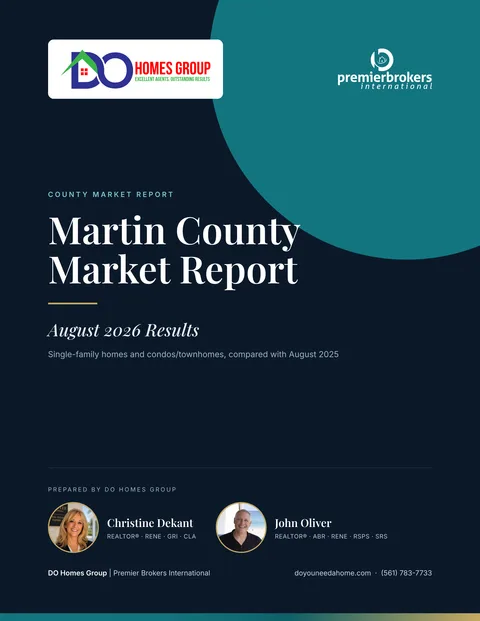
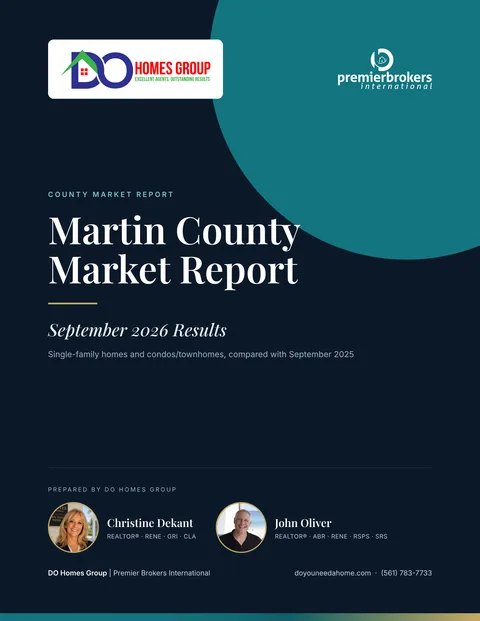
Wire the September 2026 county reports into the site
Registry (edition, ids, file names, source line, keyStats, summaries,
takeaways, FAQs), landing-page data imports and cover images now use the
September data. St. Lucie headline changed from 'tight' to 'near balanced'
to match 5.2 months of supply.

Claude-Session: https://claude.ai/code/session_01W1FBHkDZRFWAAey68Bc38G

Changed region(s): [[0.0938, 0.5201, 0.4688, 0.5507], [0.5938, 0.5507, 0.75, 0.5813]]

diff --git a/src/lib/leadMagnets.ts b/src/lib/leadMagnets.ts
@@ -128,12 +128,12 @@ export const GUIDE_EDITION = '2026 Edition'
  * Publication month of the three county market reports (Palm Beach, Martin,
  * St. Lucie). The edition month and the data month are the same month.
  */
-export const COUNTY_REPORT_EDITION = 'August 2026'
+export const COUNTY_REPORT_EDITION = 'September 2026'
 /** The month the county report statistics actually cover. */
-export const COUNTY_REPORT_DATA_MONTH = 'August 2026'
+export const COUNTY_REPORT_DATA_MONTH = 'September 2026'
 /** Source line printed in all three county report PDFs. */
 export const COUNTY_REPORT_SOURCE =
-  'MIAMI REALTORS® + RWorld, based on Florida Realtors® data, August 2026'
+  'BeachesMLS (Broward, Palm Beaches & St. Lucie Realtors®), September 2026'
 
 // Counts printed on the guide landing pages and covers are derived from the
 // content files so they can never drift out of sync with what is actually in
@@ -151,31 +151,31 @@ const CONDO_QUESTION_COUNT =
 
 export const leadMagnets: Record<LeadMagnetKey, LeadMagnet> = {
   // ───────────────────────────────────────────────────────────────────────────
-  // Built by scripts/pbc-county-report/ from data/pbc-market-2026-08.json, which
+  // Built by scripts/pbc-county-report/ from data/pbc-market-2026-09.json, which
   // the landing-page tables also read. Replaces the two July-data Palm Beach
   // County reports (single-family and condo-townhome) — both property types are
   // in this one PDF. Past activity only: no predictions, no valuation claims.
   'palm-beach-county-market-report': {
     key: 'palm-beach-county-market-report',
-    id: 'palm-beach-county-market-report-2026-08',
+    id: 'palm-beach-county-market-report-2026-09',
     kind: 'market-report',
     title: 'Palm Beach County Market Report',
     shortTitle: 'Palm Beach County Market Report',
     category: 'Palm Beach County',
     edition: COUNTY_REPORT_EDITION,
     dataMonth: COUNTY_REPORT_DATA_MONTH,
-    dataAttribution: `${COUNTY_REPORT_DATA_MONTH} Palm Beach County market data (MIAMI REALTORS® + RWorld, based on Florida Realtors® data)`,
-    fileName: 'palm-beach-county-market-report-august-2026.pdf',
+    dataAttribution: `${COUNTY_REPORT_DATA_MONTH} Palm Beach County market data (BeachesMLS)`,
+    fileName: 'palm-beach-county-market-report-september-2026.pdf',
     coverImage: '/images/reports/palm-beach-county-cover.webp',
     coverImageLarge: '/images/reports/palm-beach-county-cover-lg.webp',
     coverAlt:
-      'Cover of the Palm Beach County Market Report, August 2026, prepared by Christine Dekant and John Oliver of DO Homes Group',
+      'Cover of the Palm Beach County Market Report, September 2026, prepared by Christine Dekant and John Oliver of DO Homes Group',
     crmTag: 'Lead Magnet - Palm Beach County Market Report',
     landingPage: '/palm-beach-county-market-report',
     ctaEyebrow: `Free — ${COUNTY_REPORT_DATA_MONTH} Palm Beach County Numbers`,
     ctaHeadline: 'What Palm Beach County Homes Actually Sold For',
     ctaDescription:
-      'The typical house sold for $650,000 and went under contract in 40 days, at 94.8% of asking. Condos are a different market: 6.7 months of supply and 69 days. See both, and what each means for your offer or your asking price.',
+      'The typical house sold for $656,000 and went under contract in 43 days, at 94.7% of asking. Condos are a different market: 6.8 months of supply and 53 days. See both, and what each means for your offer or your asking price.',
     ctaButtonLabel: 'Send Me the Numbers',
     benefits: [
       'What houses and condos actually sold for last month, and how fast',
@@ -183,33 +183,33 @@ export const leadMagnets: Record<LeadMagnetKey, LeadMagnet> = {
       'How much is for sale now versus a year ago, so you can see who has the upper hand',
     ],
     keyStats: [
-      { value: '$650,000', label: 'Single-Family Median', sub: '+3.2% year over year' },
-      { value: '3.5', label: 'Single-Family Months of Supply', sub: 'down from 5.2' },
-      { value: '$300,000', label: 'Condo/Townhome Median', sub: '+5.3% year over year' },
-      { value: '6.7', label: 'Condo/Townhome Months of Supply', sub: 'down from 9.0' },
+      { value: '$656,000', label: 'Single-Family Median', sub: '+6.7% year over year' },
+      { value: '3.6', label: 'Single-Family Months of Supply', sub: 'down from 5.0' },
+      { value: '$310,000', label: 'Condo/Townhome Median', sub: '+3.3% year over year' },
+      { value: '6.8', label: 'Condo/Townhome Months of Supply', sub: 'down from 8.8' },
     ],
     subheadline:
       'Prices, inventory, pace and negotiating conditions across Palm Beach County, with single-family homes and condos/townhomes measured separately.',
     metaTitle: `Palm Beach County Real Estate Market Report | ${COUNTY_REPORT_EDITION}`,
     metaDescription:
-      'Palm Beach County August 2026: single-family median $650,000 at 3.5 months of supply; condos/townhomes $300,000 at 6.7 months. Free PDF with year-over-year tables.',
+      'Palm Beach County September 2026: single-family median $656,000 at 3.6 months of supply; condos/townhomes $310,000 at 6.8 months. Free PDF with year-over-year tables.',
     summaryHeading: `What the ${COUNTY_REPORT_DATA_MONTH} Numbers Say`,
     summary:
-      'Single-family homes and condos/townhomes behaved like two different markets in Palm Beach County in August 2026. Single-family supply tightened from 5.2 to 3.5 months as active inventory fell 23.8% to 4,345, and median days to contract dropped from 46 to 40, even though closed sales slipped 2.0% to 1,112. The median sale price was $650,000, against $630,000 a year earlier, and the typical sale closed at 94.8% of original list price. That reads as seller-leaning. Condos and townhomes still leave more room to negotiate at 6.7 months of supply, with a median of 69 days to contract and sales closing at 92.6% of original list price, but inventory fell 17.1% and supply is down from 9.0 months, so that room is narrower than it was a year ago.',
+      'Single-family homes and condos/townhomes behaved like two different markets in Palm Beach County in September 2026. Single-family supply tightened from 5.0 to 3.6 months as active inventory fell 19.6% to 4,481, and median days to contract dropped from 51 to 43, even though closed sales slipped 2.7% to 1,132. The median sale price was $656,000, against $615,000 a year earlier, and the typical sale closed at 94.7% of original list price. That reads as seller-leaning. Condos and townhomes still leave more room to negotiate at 6.8 months of supply, with a median of 53 days to contract and sales closing at 93.2% of original list price, but inventory fell 15.3% and supply is down from 8.8 months, so that room is narrower than it was a year ago.',
     takeaways: [
-      'Single-family: 1,112 closed sales (−2.0%), median $650,000 (+3.2%), 3.5 months of supply, down from 5.2.',
-      'Single-family median days to contract fell from 46 to 40, and sales closed at 94.8% of original list price, up from 93.3%.',
-      'Condo/townhome: 765 closed sales (−6.7%), median $300,000 (+5.3%), 6.7 months of supply, down from 9.0.',
-      'Condo/townhome sales closed at 92.6% of original list price, with a median of 69 days to contract, down from 74.',
-      'Active inventory fell 23.8% for single-family homes and 17.1% for condos and townhomes.',
-      '41.8% of single-family and 57.3% of condo/townhome closings were paid in cash, calculated from the reported counts.',
+      'Single-family: 1,132 closed sales (−2.7%), median $656,000 (+6.7%), 3.6 months of supply, down from 5.0.',
+      'Single-family median days to contract fell from 51 to 43, and sales closed at 94.7% of original list price, up from 93.4%.',
+      'Condo/townhome: 782 closed sales (−4.3%), median $310,000 (+3.3%), 6.8 months of supply, down from 8.8.',
+      'Condo/townhome sales closed at 93.2% of original list price, with a median of 53 days to contract, down from 65.',
+      'Active inventory fell 19.6% for single-family homes and 15.3% for condos and townhomes.',
+      '44.7% of single-family and 61.1% of condo/townhome closings were paid in cash, calculated from the reported counts.',
     ],
     audienceColumns: [
       {
         heading: 'If You Are Buying',
         points: [
-          'See how 3.5 months of single-family supply and a 40-day median contract time shape how ready you need to be.',
-          'Understand the negotiating room 6.7 months of condo/townhome supply still gives buyers, and why it is narrower than a year ago.',
+          'See how 3.6 months of single-family supply and a 43-day median contract time shape how ready you need to be.',
+          'Understand the negotiating room 6.8 months of condo/townhome supply still gives buyers, and why it is narrower than a year ago.',
           'Base offers on what homes actually closed at relative to original list price, not on asking prices.',
         ],
       },
@@ -225,7 +225,7 @@ export const leadMagnets: Record<LeadMagnetKey, LeadMagnet> = {
     faqs: [
       {
         q: 'What data is in the Palm Beach County Market Report?',
-        a: 'August 2026 county-level figures for Palm Beach County single-family homes and condos/townhomes: closed sales, paid-in-cash sales, median sale price, percent of original list price received, median days to contract, active inventory and months of supply, each compared with August 2025, plus guidance for buyers and sellers. Source: MIAMI REALTORS® + RWorld, based on Florida Realtors® data.',
+        a: 'September 2026 county-level figures for Palm Beach County single-family homes and condos/townhomes: closed sales, paid-in-cash sales, median sale price, percent of original list price received, median days to contract, active inventory and months of supply, each compared with September 2025, plus guidance for buyers and sellers. Source: BeachesMLS (Broward, Palm Beaches & St. Lucie Realtors®).',
       },
       {
         q: 'Does it include figures for my city or neighborhood?',
@@ -233,7 +233,7 @@ export const leadMagnets: Record<LeadMagnetKey, LeadMagnet> = {
       },
       {
         q: 'Does it cover condos as well as houses?',
-        a: 'Yes. Single-family homes and condos/townhomes are reported separately, because in August 2026 they were behaving like two different markets: 3.5 months of supply for single-family homes against 6.7 for condos and townhomes.',
+        a: 'Yes. Single-family homes and condos/townhomes are reported separately, because in September 2026 they were behaving like two different markets: 3.6 months of supply for single-family homes against 6.8 for condos and townhomes.',
       },
       {
         q: 'Is the report really free?',
@@ -491,32 +491,32 @@ export const leadMagnets: Record<LeadMagnetKey, LeadMagnet> = {
 
   // ───────────────────────────────────────────────────────────────────────────
   // The Martin and St. Lucie county reports. Every figure below comes from the
-  // August 2026 data files the PDFs are built from — scripts/pbc-county-report/
-  // data/{martin,st-lucie}-market-2026-08.json — and the landing-page tables
+  // September 2026 data files the PDFs are built from — scripts/pbc-county-report/
+  // data/{martin,st-lucie}-market-2026-09.json — and the landing-page tables
   // read those same files. Past activity only: no predictions, no valuation
-  // claims. Both condo medians rest on small samples (61 and 80 closings) and
+  // claims. Both condo medians rest on small samples (90 and 91 closings) and
   // must never be presented as a blanket increase in condo values.
   'martin-county-market-report': {
     key: 'martin-county-market-report',
-    id: 'martin-county-market-report-2026-08',
+    id: 'martin-county-market-report-2026-09',
     kind: 'market-report',
     title: 'Martin County Market Report',
     shortTitle: 'Martin County Market Report',
     category: 'Martin County',
     edition: COUNTY_REPORT_EDITION,
     dataMonth: COUNTY_REPORT_DATA_MONTH,
-    dataAttribution: `${COUNTY_REPORT_DATA_MONTH} Martin County market data (MIAMI REALTORS® + RWorld, based on Florida Realtors® data)`,
-    fileName: 'martin-county-market-report-august-2026.pdf',
+    dataAttribution: `${COUNTY_REPORT_DATA_MONTH} Martin County market data (BeachesMLS)`,
+    fileName: 'martin-county-market-report-september-2026.pdf',
     coverImage: '/images/reports/martin-county-cover.webp',
     coverImageLarge: '/images/reports/martin-county-cover-lg.webp',
     coverAlt:
-      'Cover of the Martin County Market Report, August 2026, prepared by Christine Dekant and John Oliver of DO Homes Group',
+      'Cover of the Martin County Market Report, September 2026, prepared by Christine Dekant and John Oliver of DO Homes Group',
     crmTag: 'Lead Magnet - Martin County Market Report',
     landingPage: '/martin-county-market-report',
     ctaEyebrow: `Free — ${COUNTY_REPORT_DATA_MONTH} Martin County Numbers`,
     ctaHeadline: 'Martin County Houses Are Selling Three Weeks Faster',
     ctaDescription:
-      'Houses went under contract in 56 days last month, down from 77 a year ago, and what is for sale dropped by more than a fifth. The typical house sold for $656,900. Every number is Martin County \u2014 Stuart, Palm City, Hobe Sound and Port Salerno \u2014 not Palm Beach County.',
+      'Houses went under contract in 39 days last month, down from 62 a year ago, and what is for sale dropped by nearly a fifth. The typical house sold for $600,000. Every number is Martin County \u2014 Stuart, Palm City, Hobe Sound and Port Salerno \u2014 not Palm Beach County.',
     ctaButtonLabel: 'Send Me the Numbers',
     benefits: [
       'What houses and condos actually sold for last month, and how fast',
@@ -524,32 +524,32 @@ export const leadMagnets: Record<LeadMagnetKey, LeadMagnet> = {
       'Martin County only, never blended with Palm Beach County',
     ],
     keyStats: [
-      { value: '$656,900', label: 'Single-Family Median', sub: '+12.8% year over year' },
-      { value: '3.4', label: 'Single-Family Months of Supply', sub: 'down from 5.1' },
-      { value: '56', label: 'Single-Family Days to Contract', sub: 'down from 77' },
-      { value: '5.5', label: 'Condo/Townhome Months of Supply', sub: 'down from 8.1' },
+      { value: '$600,000', label: 'Single-Family Median', sub: '+5.3% year over year' },
+      { value: '3.6', label: 'Single-Family Months of Supply', sub: 'down from 5.1' },
+      { value: '39', label: 'Single-Family Days to Contract', sub: 'down from 62' },
+      { value: '5.1', label: 'Condo/Townhome Months of Supply', sub: 'down from 7.9' },
     ],
     subheadline:
       'Stuart, Palm City, Hobe Sound, Port Salerno and the rest of Martin County, measured on their own county’s numbers rather than Palm Beach County’s.',
     metaTitle: `Martin County Real Estate Market Report | ${COUNTY_REPORT_EDITION}`,
     metaDescription:
-      'Martin County August 2026: single-family median $656,900 at 3.4 months of supply; condos/townhomes at 5.5 months. Year-over-year tables in a free PDF.',
+      'Martin County September 2026: single-family median $600,000 at 3.6 months of supply; condos/townhomes at 5.1 months. Year-over-year tables in a free PDF.',
     summaryHeading: `What the ${COUNTY_REPORT_DATA_MONTH} Numbers Say`,
     summary:
-      'Martin County recorded fewer closings and fewer active listings in August 2026 than a year earlier, for both property types. Single-family closed sales fell 11.3% to 181 while active inventory fell 21.7% to 644, taking months of supply from 5.1 to 3.4. Median days to contract dropped from 77 to 56, the typical sale closed at 94.2% of original list price, and the median sale price was $656,900, compared with $582,500 in August 2025. That combination reads as seller-leaning. Condos and townhomes are closer to balanced: supply fell from 8.1 to 5.5 months, sales closed at 90.8% of original list price, and the median took 84 days to reach contract. The condo/townhome median rose 20.7% to $277,500, but it rests on only 61 closings, so it reflects the mix of units that happened to sell rather than a change in what any particular condo is worth.',
+      'Martin County recorded fewer active listings in September 2026 than a year earlier, for both property types. Single-family closed sales fell 4.0% to 168 while active inventory fell 18.1% to 682, taking months of supply from 5.1 to 3.6. Median days to contract dropped from 62 to 39, the typical sale closed at 94.6% of original list price, and the median sale price was $600,000, compared with $570,000 in September 2025. That combination reads as seller-leaning. Condos and townhomes are closer to balanced: supply fell from 7.9 to 5.1 months, the largest move in either property type, and sales closed at 92.3% of original list price, up from 89.0%. Closings rose 13.9% to 90, though median days to contract lengthened from 80 to 89. The condo/townhome median rose 8.0% to $237,500, but it rests on only 90 closings, so it reflects the mix of units that happened to sell rather than a change in what any particular condo is worth.',
     takeaways: [
-      'Single-family: 181 closed sales (−11.3%), median $656,900 (+12.8%), 3.4 months of supply, down from 5.1.',
-      'Single-family median days to contract fell from 77 to 56, and sales closed at 94.2% of original list price, up from 91.5%.',
-      'Condo/townhome: 61 closed sales (−22.8%), 5.5 months of supply, down from 8.1, at 90.8% of original list price.',
-      'The +20.7% condo/townhome median rests on only 61 closings. It is not a blanket conclusion about condo values.',
-      'Active inventory fell 21.7% for single-family homes and 19.9% for condos and townhomes.',
-      '36.5% of single-family and 52.5% of condo/townhome closings were paid in cash, calculated from the reported counts.',
+      'Single-family: 168 closed sales (−4.0%), median $600,000 (+5.3%), 3.6 months of supply, down from 5.1.',
+      'Single-family median days to contract fell from 62 to 39, and sales closed at 94.6% of original list price, up from 93.1%.',
+      'Condo/townhome: 90 closed sales (+13.9%), 5.1 months of supply, down from 7.9, at 92.3% of original list price.',
+      'The +8.0% condo/townhome median rests on only 90 closings. It is not a blanket conclusion about condo values.',
+      'Active inventory fell 18.1% for single-family homes and 24.8% for condos and townhomes.',
+      '33.3% of single-family and 58.9% of condo/townhome closings were paid in cash, calculated from the reported counts.',
     ],
     audienceColumns: [
       {
         heading: 'If You Are Buying',
         points: [
-          'See how 3.4 months of single-family supply and a 56-day median contract time shape how ready you need to be.',
+          'See how 3.6 months of single-family supply and a 39-day median contract time shape how ready you need to be.',
           'Anchor offers to what homes actually closed at, relative to original list price, by property type.',
           'Know which condo and townhome figures rest on small samples before you read too much into them.',
         ],
@@ -566,15 +566,15 @@ export const leadMagnets: Record<LeadMagnetKey, LeadMagnet> = {
     faqs: [
       {
         q: 'What data is in the Martin County Market Report?',
-        a: 'August 2026 county-level figures for Martin County single-family homes and condos/townhomes: closed sales, paid-in-cash sales, median sale price, percent of original list price received, median days to contract, active inventory and months of supply, each compared with August 2025. Source: MIAMI REALTORS® + RWorld, based on Florida Realtors® data.',
+        a: 'September 2026 county-level figures for Martin County single-family homes and condos/townhomes: closed sales, paid-in-cash sales, median sale price, percent of original list price received, median days to contract, active inventory and months of supply, each compared with September 2025. Source: BeachesMLS (Broward, Palm Beaches & St. Lucie Realtors®).',
       },
       {
         q: 'Does it include figures for Stuart, Palm City, Hobe Sound or Port Salerno?',
         a: 'No. Every figure is a Martin County total. County numbers blend distinct local markets, and conditions in any one town or neighborhood can differ from the county median. For a specific area, we review recent sales and active competition there with you.',
       },
       {
-        q: 'Did Martin County condo values go up 20.7%?',
-        a: 'Not in any general sense. The condo/townhome median sale price was $277,500 in August 2026, compared with $230,000 a year earlier, but that median is based on only 61 closings. A sample that small moves with the mix of units that happened to sell, so it says nothing reliable about what any particular condo or townhome is worth.',
+        q: 'Did Martin County condo values go up 8.0%?',
+        a: 'Not in any general sense. The condo/townhome median sale price was $237,500 in September 2026, compared with $220,000 a year earlier, but that median is based on only 90 closings. A sample that small moves with the mix of units that happened to sell, so it says nothing reliable about what any particular condo or townhome is worth.',
       },
       {
         q: 'Is the report really free?',
@@ -611,25 +611,25 @@ export const leadMagnets: Record<LeadMagnetKey, LeadMagnet> = {
   // ───────────────────────────────────────────────────────────────────────────
   'st-lucie-county-market-report': {
     key: 'st-lucie-county-market-report',
-    id: 'st-lucie-county-market-report-2026-08',
+    id: 'st-lucie-county-market-report-2026-09',
     kind: 'market-report',
     title: 'St. Lucie County Market Report',
     shortTitle: 'St. Lucie County Market Report',
     category: 'St. Lucie County',
     edition: COUNTY_REPORT_EDITION,
     dataMonth: COUNTY_REPORT_DATA_MONTH,
-    dataAttribution: `${COUNTY_REPORT_DATA_MONTH} St. Lucie County market data (MIAMI REALTORS® + RWorld, based on Florida Realtors® data)`,
-    fileName: 'st-lucie-county-market-report-august-2026.pdf',
+    dataAttribution: `${COUNTY_REPORT_DATA_MONTH} St. Lucie County market data (BeachesMLS)`,
+    fileName: 'st-lucie-county-market-report-september-2026.pdf',
     coverImage: '/images/reports/st-lucie-county-cover.webp',
     coverImageLarge: '/images/reports/st-lucie-county-cover-lg.webp',
     coverAlt:
-      'Cover of the St. Lucie County Market Report, August 2026, prepared by Christine Dekant and John Oliver of DO Homes Group',
+      'Cover of the St. Lucie County Market Report, September 2026, prepared by Christine Dekant and John Oliver of DO Homes Group',
     crmTag: 'Lead Magnet - St. Lucie County Market Report',
     landingPage: '/st-lucie-county-market-report',
     ctaEyebrow: `Free — ${COUNTY_REPORT_DATA_MONTH} St. Lucie County Numbers`,
-    ctaHeadline: 'Houses Are Tight Here. Condo Buyers Still Have Choice.',
+    ctaHeadline: 'Houses Are Near Balanced. Condo Buyers Still Have Choice.',
     ctaDescription:
-      'Houses sold at 95.5% of asking in 54 days last month, so there was less room than most buyers expect. Condos ran 7.6 months of supply and 82 days, which is a different negotiation entirely. Both sets of numbers, in one free PDF.',
+      'Houses sold at 95.7% of asking in 52 days last month, so there was less room than most buyers expect. Condos ran 7.8 months of supply and 117 days, which is a different negotiation entirely. Both sets of numbers, in one free PDF.',
     ctaButtonLabel: 'Send Me the Numbers',
     benefits: [
       'What houses and condos actually sold for last month, and how fast',
@@ -637,34 +637,34 @@ export const leadMagnets: Record<LeadMagnetKey, LeadMagnet> = {
       'St. Lucie County only, never blended with Palm Beach County',
     ],
     keyStats: [
-      { value: '$402,500', label: 'Single-Family Median', sub: '+0.6% year over year' },
-      { value: '4.9', label: 'Single-Family Months of Supply', sub: 'down from 5.4' },
-      { value: '95.5%', label: 'Single-Family List Price Received', sub: 'up from 94.3%' },
-      { value: '7.6', label: 'Condo/Townhome Months of Supply', sub: 'down from 10.1' },
+      { value: '$395,000', label: 'Single-Family Median', sub: '−1.3% year over year' },
+      { value: '5.2', label: 'Single-Family Months of Supply', sub: 'down from 5.5' },
+      { value: '95.7%', label: 'Single-Family List Price Received', sub: 'up from 95.0%' },
+      { value: '7.8', label: 'Condo/Townhome Months of Supply', sub: 'down from 9.5' },
     ],
     subheadline:
       'Port St. Lucie and the rest of St. Lucie County, measured on their own county’s numbers rather than Palm Beach County’s.',
     metaTitle: `St. Lucie County Real Estate Market Report | ${COUNTY_REPORT_EDITION}`,
     metaDescription:
-      'St. Lucie County August 2026: single-family median $402,500 at 4.9 months of supply; condos/townhomes at 7.6 months. Year-over-year tables in a free PDF.',
+      'St. Lucie County September 2026: single-family median $395,000 at 5.2 months of supply; condos/townhomes at 7.8 months. Year-over-year tables in a free PDF.',
     summaryHeading: `What the ${COUNTY_REPORT_DATA_MONTH} Numbers Say`,
     summary:
-      'St. Lucie County’s two property types sent different signals in August 2026. Single-family homes were near balanced and tilting toward sellers: supply eased from 5.4 to 4.9 months, the typical sale closed at 95.5% of original list price, up from 94.3%, and median days to contract fell from 64 to 54. The median sale price held essentially steady at $402,500, against $400,000 a year earlier, while closed sales slipped 6.5% to 444. Condos and townhomes remained buyer-leaning. Active inventory fell 15.2% to 626 and supply dropped from 10.1 months, yet 7.6 months still leaves buyers with options, and median days to contract lengthened from 78 to 82. The condo/townhome median rose 7.2% to $320,000, but it is based on only 80 closings, so read it alongside supply and list-price-received figures rather than as an increase in condo values.',
+      'St. Lucie County’s two property types sent different signals in September 2026. Single-family homes were close to balanced: supply eased from 5.5 to 5.2 months and the typical sale closed at 95.7% of original list price, up from 95.0%, but median days to contract rose from 44 to 52. The median sale price was $395,000, against $400,000 a year earlier, and closed sales slipped 8.7% to 464. Condos and townhomes remained buyer-leaning. Active inventory fell 10.6% to 635 and supply dropped from 9.5 months, yet 7.8 months still leaves buyers with options, and median days to contract lengthened from 69 to 117. The condo/townhome median rose 24.1% to $337,500, but it is based on only 91 closings in a county without much condo stock, so which buildings happened to trade moves it more than any change in what units are worth. Read it alongside supply and list-price-received figures, not as an increase in condo values.',
     takeaways: [
-      'Single-family: 444 closed sales (−6.5%), median $402,500 (+0.6%), 4.9 months of supply, down from 5.4.',
-      'Single-family sales closed at 95.5% of original list price, and median days to contract fell from 64 to 54.',
-      'Condo/townhome: 80 closed sales (−9.1%), 7.6 months of supply, down from 10.1, with median days to contract up from 78 to 82.',
-      'The +7.2% condo/townhome median rests on only 80 closings. It is not a universal increase in condo values.',
-      'Active inventory fell 3.4% to 2,270 single-family homes and 15.2% to 626 condos and townhomes.',
-      '25.2% of single-family and 53.8% of condo/townhome closings were paid in cash, calculated from the reported counts.',
+      'Single-family: 464 closed sales (−8.7%), median $395,000 (−1.3%), 5.2 months of supply, down from 5.5.',
+      'Single-family sales closed at 95.7% of original list price, but median days to contract rose from 44 to 52.',
+      'Condo/townhome: 91 closed sales (−3.2%), 7.8 months of supply, down from 9.5, with median days to contract up from 69 to 117.',
+      'The +24.1% condo/townhome median rests on only 91 closings. It is not a universal increase in condo values.',
+      'Active inventory fell 1.3% to 2,384 single-family homes and 10.6% to 635 condos and townhomes.',
+      '27.6% of single-family and 42.9% of condo/townhome closings were paid in cash, calculated from the reported counts.',
     ],
     audienceColumns: [
       {
         heading: 'If You Are Buying',
         points: [
-          'See why single-family sales closing at 95.5% of original list price can mean less room than you expect.',
-          'Understand the leverage 7.6 months of condo/townhome supply and an 82-day median contract time give buyers.',
-          'Judge a condo on its own building’s sales and finances, not a county median built on 80 closings.',
+          'See why single-family sales closing at 95.7% of original list price can mean less room than you expect.',
+          'Understand the leverage 7.8 months of condo/townhome supply and a 117-day median contract time give buyers.',
+          'Judge a condo on its own building’s sales and finances, not a county median built on 91 closings.',
         ],
       },
       {
@@ -679,15 +679,15 @@ export const leadMagnets: Record<LeadMagnetKey, LeadMagnet> = {
     faqs: [
       {
         q: 'What data is in the St. Lucie County Market Report?',
-        a: 'August 2026 county-level figures for St. Lucie County single-family homes and condos/townhomes: closed sales, paid-in-cash sales, median sale price, percent of original list price received, median days to contract, active inventory and months of supply, each compared with August 2025. Source: MIAMI REALTORS® + RWorld, based on Florida Realtors® data.',
+        a: 'September 2026 county-level figures for St. Lucie County single-family homes and condos/townhomes: closed sales, paid-in-cash sales, median sale price, percent of original list price received, median days to contract, active inventory and months of supply, each compared with September 2025. Source: BeachesMLS (Broward, Palm Beaches & St. Lucie Realtors®).',
       },
       {
         q: 'Does it include figures for Port St. Lucie?',
         a: 'No. Every figure is a St. Lucie County total. County numbers blend varied local markets, and conditions in any one city or neighborhood can differ from the county median. For a specific area, we review recent sales and active competition there with you.',
       },
       {
-        q: 'Did St. Lucie County condo values go up 7.2%?',
-        a: 'Not in any general sense. The condo/townhome median sale price was $320,000 in August 2026, compared with $298,450 a year earlier, but it is based on only 80 closings. Read it alongside 7.6 months of supply, 626 active listings and 93.7% of original list price received, not as a universal increase in condo values.',
+        q: 'Did St. Lucie County condo values go up 24.1%?',
+        a: 'Not in any general sense. The condo/townhome median sale price was $337,500 in September 2026, compared with $272,000 a year earlier, but it is based on only 91 closings in a county without much condo stock. Read it alongside 7.8 months of supply, 635 active listings and 93.3% of original list price received, not as a universal increase in condo values.',
       },
       {
         q: 'Is the report really free?',

diff --git a/src/app/st-lucie-county-market-report/page.tsx b/src/app/st-lucie-county-market-report/page.tsx
@@ -2,9 +2,9 @@ import type { Metadata } from 'next'
 import { leadMagnets } from '@/lib/leadMagnets'
 import LeadMagnetLanding from '@/components/leadMagnet/LeadMagnetLanding'
 import CountyMarketTables from '@/components/leadMagnet/CountyMarketTables'
-// The same August 2026 data and narrative files the PDF is built from.
-import stLucieMarket from '../../../scripts/pbc-county-report/data/st-lucie-market-2026-08.json'
-import stLucieNarrative from '../../../scripts/pbc-county-report/data/st-lucie-narrative-2026-08.json'
+// The same September 2026 data and narrative files the PDF is built from.
+import stLucieMarket from '../../../scripts/pbc-county-report/data/st-lucie-market-2026-09.json'
+import stLucieNarrative from '../../../scripts/pbc-county-report/data/st-lucie-narrative-2026-09.json'
 
 const magnet = leadMagnets['st-lucie-county-market-report']
 

diff --git a/src/app/martin-county-market-report/page.tsx b/src/app/martin-county-market-report/page.tsx
@@ -2,9 +2,9 @@ import type { Metadata } from 'next'
 import { leadMagnets } from '@/lib/leadMagnets'
 import LeadMagnetLanding from '@/components/leadMagnet/LeadMagnetLanding'
 import CountyMarketTables from '@/components/leadMagnet/CountyMarketTables'
-// The same August 2026 data and narrative files the PDF is built from.
-import martinMarket from '../../../scripts/pbc-county-report/data/martin-market-2026-08.json'
-import martinNarrative from '../../../scripts/pbc-county-report/data/martin-narrative-2026-08.json'
+// The same September 2026 data and narrative files the PDF is built from.
+import martinMarket from '../../../scripts/pbc-county-report/data/martin-market-2026-09.json'
+import martinNarrative from '../../../scripts/pbc-county-report/data/martin-narrative-2026-09.json'
 
 const magnet = leadMagnets['martin-county-market-report']
 

diff --git a/src/app/palm-beach-county-market-report/page.tsx b/src/app/palm-beach-county-market-report/page.tsx
@@ -2,8 +2,8 @@ import type { Metadata } from 'next'
 import { leadMagnets } from '@/lib/leadMagnets'
 import LeadMagnetLanding from '@/components/leadMagnet/LeadMagnetLanding'
 import CountyMarketTables from '@/components/leadMagnet/CountyMarketTables'
-// The same August 2026 data file the PDF is built from.
-import pbcMarket from '../../../scripts/pbc-county-report/data/pbc-market-2026-08.json'
+// The same September 2026 data file the PDF is built from.
+import pbcMarket from '../../../scripts/pbc-county-report/data/pbc-market-2026-09.json'
 
 const magnet = leadMagnets['palm-beach-county-market-report']
 
